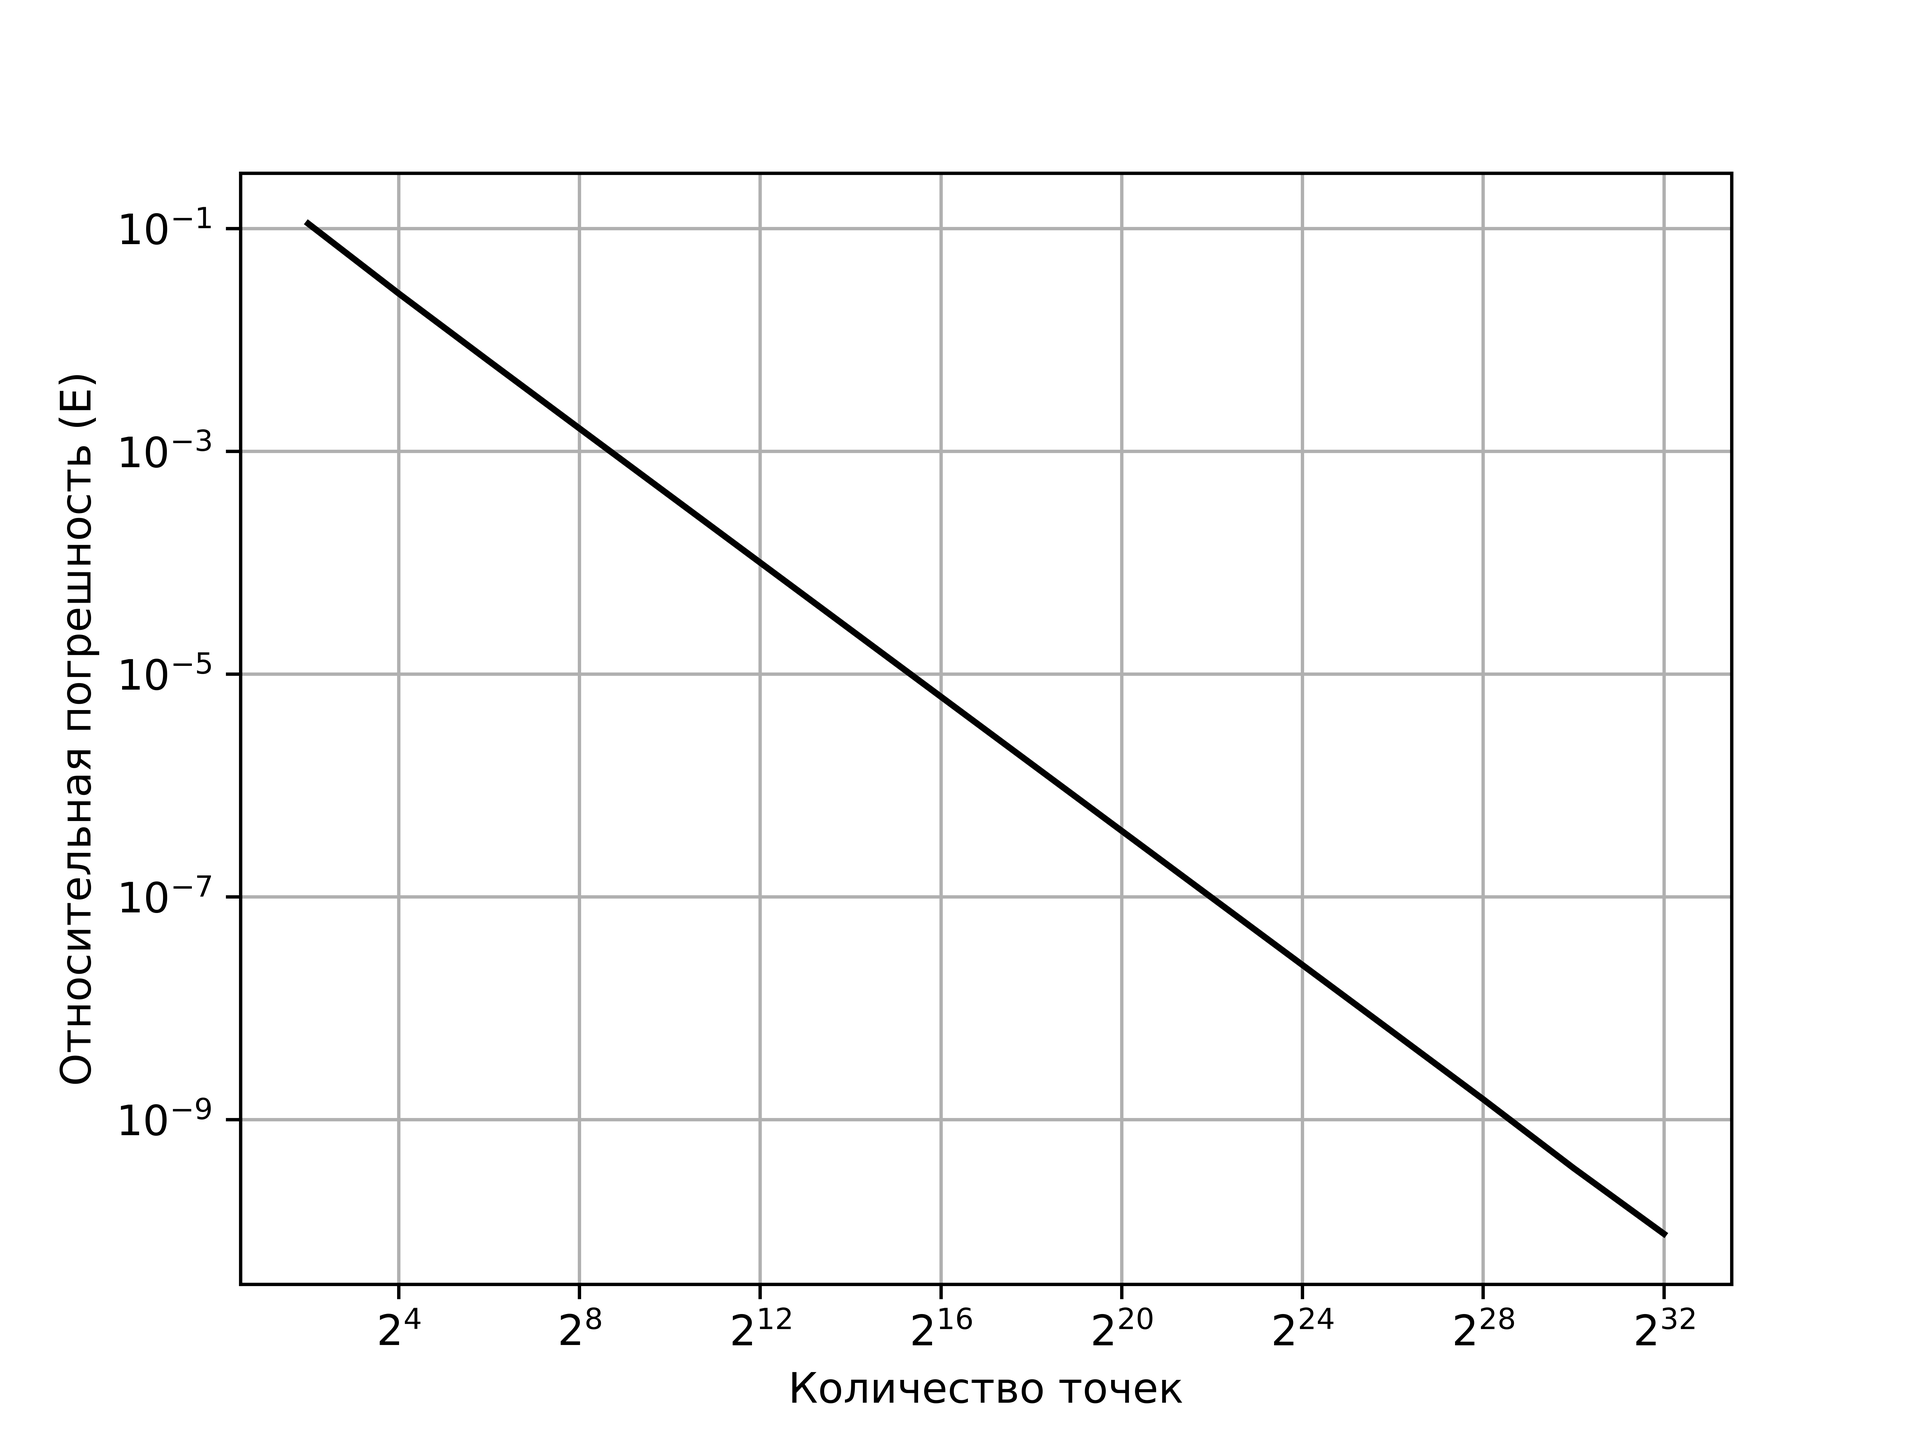
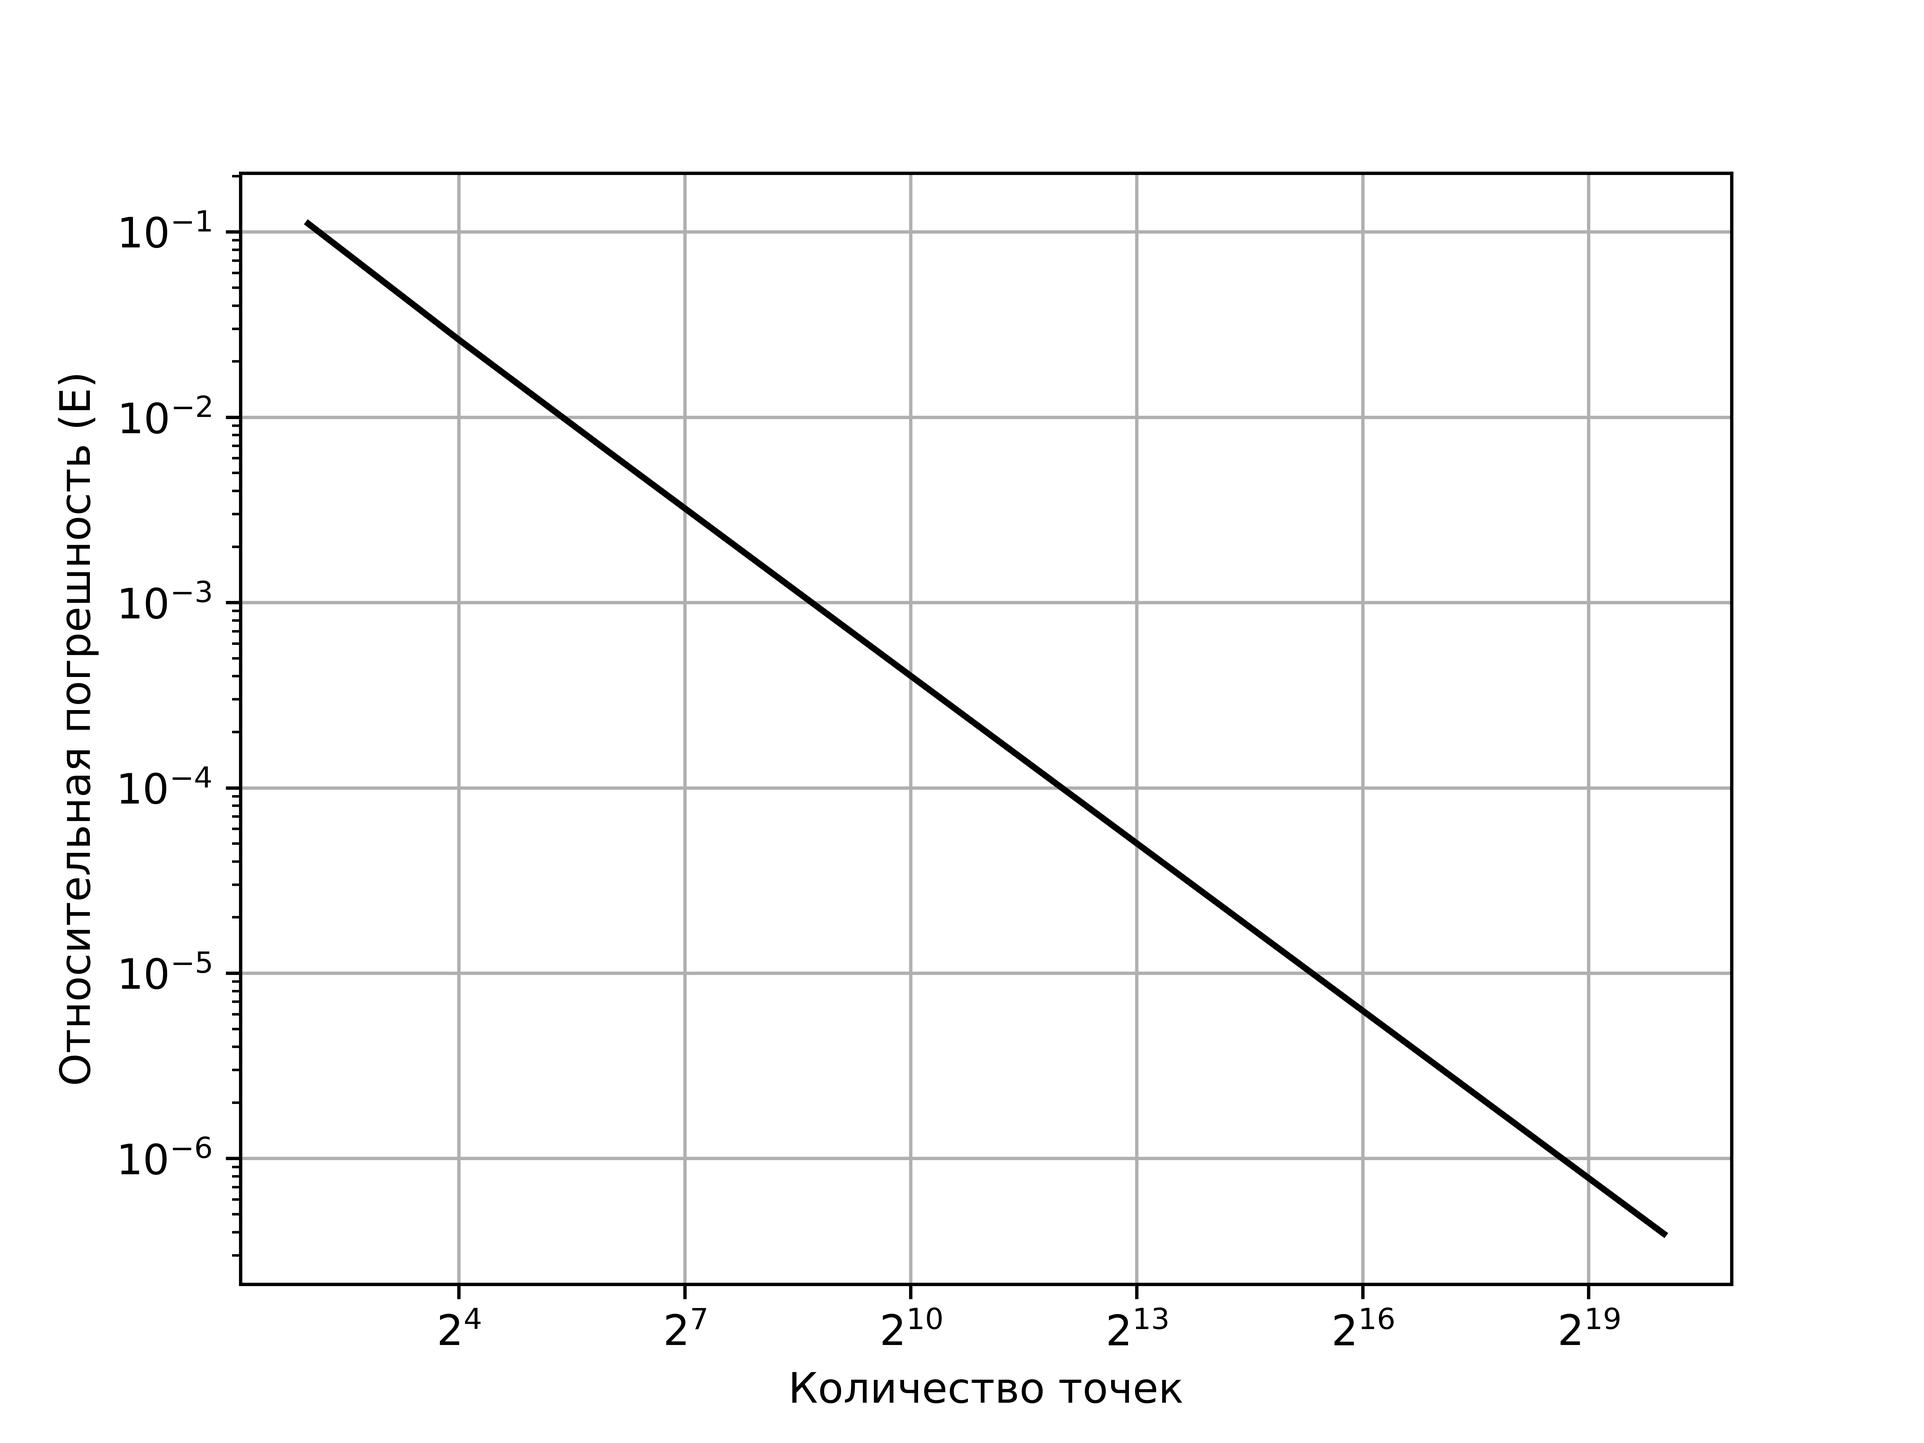
changes

diff --git a/gui.py b/gui.py
@@ -8,6 +8,8 @@ from threading import Event
 from model import Drum_with_podlozkda, Mishen
 from tkinter import messagebox
 from decimal import Decimal
+import logging
+import sys
 
 global exit_flag
 exit_flag = Event()
@@ -54,12 +56,15 @@ def start(
     frames,
     d_field,
     ct_field,
+    enabled_sh,
+    rad_sh,
+    height_sh
 ):
 
-    if not (0 < rad_b < 99):
+    if not (0 <= rad_b <= 99):
         messagebox.showerror("Ошибка", "Введено недопустимое значение радиуса барабана. Допустимые значения:0-99")
         return
-    elif not(0 < rad_o < 99):
+    elif not(0 <= rad_o <= 99):
         messagebox.showerror("Ошибка", "Введено недопустимое значение радиуса образца. Допустимые значения:0-99")
         return
     elif not(rad_o + rad_b < m_distance):
@@ -74,7 +79,7 @@ def start(
     elif not(0 < m_width <= 100):
         messagebox.showerror("Ошибка", "Введено недопустимое значение ширины. Допустимые значения: (0,100]")
         return
-    elif not(0 < m_distance <= 100):
+    elif not(0 < m_distance <= 400):
         messagebox.showerror("Ошибка", "Введено недопустимое значение расстояния от центра барабана до мишени. Допустимые значения:(0,100]")
         return
     elif not(-360 <= psi <= 360):
@@ -108,6 +113,10 @@ def start(
         messagebox.showerror("Ошибка", "Введено недопустимое значение частоты вращения барабана. Допустимые значения:0-100")
         return
 
+    if not (enabled_sh):
+        rad_sh = 0
+        height_sh = 0
+
     exit_flag.clear()
     print(time_step)
     disable_buttons_for_frames(frames)
@@ -131,8 +140,17 @@ def start(
         seconds=time,
         d_field=d_field,
         ct_field=ct_field,
+        height_sh=height_sh / 2,
+        rad_sh=rad_sh
     )
 
+def disable_shtuka(var, param1, param2):
+    if var.get() is False:
+        param1.configure(state='disable')
+        param2.configure(state='disable')
+    else:
+        param1.configure(state='normal')
+        param2.configure(state='normal')
 
 def stop(frames):
     enable_buttons_for_frames(frames)
@@ -164,8 +182,8 @@ if __name__ == "__main__":
 
     # Create a tkinter button at the bottom of the window and link it with the updateGraph function
     root.title("Моделирование нанесения наноструктур в магнетроннах барабанного вида")
-    root.geometry('{}x{}'.format(800, 750))
-    root.minsize(width=800, height=790)
+    root.geometry('{}x{}'.format(800, 890))
+    root.minsize(width=800, height=890)
     # top_frame = tk.Frame(root, bg='cyan', width=450, height=50, pady=3)
     # center = tk.Frame(root, bg='gray2', width=50, height=40, padx=3, pady=3)
     # btm_frame = tk.Frame(root, bg='white', width=450, height=45, pady=3)
@@ -292,6 +310,32 @@ if __name__ == "__main__":
     entryMishHeight = tk.Entry(labelframeMish, text=entryTextMishHeight)
     entryMishHeight.pack(side="top", anchor="nw", expand=True)
 
+
+    # Штука
+    labelTextMishRadVnutr = tk.StringVar()
+    labelTextMishRadVnutr.set("Радиус штуки")
+    labelMishRadVnutr = tk.Label(labelframeMish, textvariable=labelTextMishRadVnutr, height=1)
+    entryTextMishRadVnutr = tk.DoubleVar()
+    entryTextMishRadVnutr.set(0)
+    entryMishRadVnutr = tk.Entry(labelframeMish, text=entryTextMishRadVnutr)
+    entryMishRadVnutr.configure(state="disabled")
+    labelTextMishHeightVnutr = tk.StringVar()
+    labelTextMishHeightVnutr.set("Высота штуки")
+    labelMishHeightVnutr = tk.Label(labelframeMish, textvariable=labelTextMishHeightVnutr, height=1)
+    entryTextMishHeightVnutr = tk.DoubleVar()
+    entryTextMishHeightVnutr.set(0)
+    entryMishHeightVnutr = tk.Entry(labelframeMish, text=entryTextMishHeightVnutr)
+    entryMishHeightVnutr.configure(state="disabled")
+
+    labelTextMishEnableVnutr = tk.BooleanVar()
+    labelTextMishEnableVnutr.set(False)
+    labelMishEnableVnutr = tk.Checkbutton(labelframeMish, text="Штука", variable=labelTextMishEnableVnutr, height=1, command=lambda: disable_shtuka(labelTextMishEnableVnutr, entryMishRadVnutr, entryMishHeightVnutr))
+    labelMishEnableVnutr.pack(side="top", anchor="nw", expand=True)
+    labelMishRadVnutr.pack(side="top", anchor="nw", expand=True)
+    entryMishRadVnutr.pack(side="top", anchor="nw", expand=True)
+    labelMishHeightVnutr.pack(side="top", anchor="nw", expand=True)
+    entryMishHeightVnutr.pack(side="top", anchor="nw", expand=True)
+
     # inside labelframeSred
     labelTextSredK = tk.StringVar()
     labelTextSredK.set("Коэффициент затенения")
@@ -389,8 +433,11 @@ if __name__ == "__main__":
             framesToDisable,
             entryTextD,
             entryTextTTime,
+            labelTextMishEnableVnutr.get(),
+            entryTextMishRadVnutr.get(),
+            entryTextMishHeightVnutr.get(),
         ),
     ).grid(row=0, column=0)
     tk.Button(frameSS, text="Стоп", command=lambda: stop(framesToDisable)).grid(row=0, column=1)
-
+    logging.basicConfig(stream=sys.stdout, level=logging.DEBUG)
     root.mainloop()

diff --git a/integr.py b/integr.py
@@ -425,12 +425,9 @@ def midpoint_calc_for_multithread(
     curr=0,
     hx=0,
     hy=0,
+    rad_sh=0,
+    height_sh=0
 ):
-
-    rad_middle = 2
-    len_middle = 5
-
-
 
     I = 0
     coord_list = []
@@ -460,16 +457,26 @@ def midpoint_calc_for_multithread(
                 z_1 = z_0 + s_3_nepodv * t
                 x_1 = l
                 logging.debug(f'Координаты точки пересечения: {x_1:.3f}, {y_1:.3f}, {z_1:.3f}')
-                if not (
-                    (z_lower_border_target <= z_1 <= z_higher_border_target)
-                    and (y_left_border_target <= y_1 <= y_right_border_target)
-                    and (math.sqrt(y_1**2 + (z_1 + len_middle)**2) > rad_middle)
-                    and (math.sqrt(y_1**2 + (z_1 - len_middle)**2) > rad_middle)
-                    and (not(-rad_middle <= y_1 <= rad_middle) or not(-len_middle <= z_1 <= len_middle))
-                ):
-                    logging.debug(f"{Fore.RED}Луч не пересекает поверхность{Style.RESET_ALL}")
-                    coord_list.append([x_1, y_1, z_1, 0])
-                    continue
+                if height_sh != 0:
+                    if not (
+                        (z_lower_border_target <= z_1 <= z_higher_border_target)
+                        and (y_left_border_target <= y_1 <= y_right_border_target)
+                        and (math.sqrt(y_1**2 + (z_1 + height_sh)**2) > rad_sh)
+                        and (math.sqrt(y_1**2 + (z_1 - height_sh)**2) > rad_sh)
+                        and (not(-rad_sh <= y_1 <= rad_sh) or not(-height_sh <= z_1 <= height_sh))
+                    ):
+                        logging.debug(f"{Fore.RED}Луч не пересекает поверхность{Style.RESET_ALL}")
+                        coord_list.append([x_1, y_1, z_1, 0])
+                        continue
+                else:
+                    if not (
+                        (z_lower_border_target <= z_1 <= z_higher_border_target)
+                        and (y_left_border_target <= y_1 <= y_right_border_target)
+                    ):
+                        logging.debug(f"{Fore.RED}Луч не пересекает поверхность{Style.RESET_ALL}")
+                        coord_list.append([x_1, y_1, z_1, 0])
+                        continue
+
                 logging.debug(f"{Fore.GREEN}Луч пересекает поверхность{Style.RESET_ALL}")
                 coord_list.append([x_1, y_1, z_1, 1])
 
@@ -500,6 +507,8 @@ def midpoint_double_viz_multithread(
     y_0=0,
     z_0=0,
     l=10,
+    height_sh=0,
+    rad_sh=0
 ):
 
     hx = (b1 - a1) / nx
@@ -547,6 +556,8 @@ def midpoint_double_viz_multithread(
                     curr=curr,
                     hx=hx,
                     hy=hy,
+                    height_sh=height_sh,
+                    rad_sh=rad_sh
                 )
             )
             logging.debug("started thread")

diff --git a/graph_tochn_time_error.py b/graph_tochn_time_error.py
@@ -11,7 +11,7 @@ path = "/home/remini/learning/diplom"
 res = []
 d_arr = []
 for filename in os.listdir(path):
-    if re.match("table_tochn_time_one_thread.csv*", filename):
+    if re.match("table_tochn_time.csv*", filename):
         with open(os.path.join(path, filename), 'r') as f:
             print(filename)
             reader = csv.reader(f, delimiter=',', quotechar=',',
@@ -29,46 +29,44 @@ for filename in os.listdir(path):
                 if re.match("angle*", row[0]):
                     continue
                 else:
-                    d_arr.append([float(row[2]), int(row[5])])
+                    d_arr.append([float(row[1]), float(row[2]), int(row[5])])
 
-d_arr.sort(key=lambda x: x[1])
+d_arr.sort(key=lambda x: x[2])
 print(d_arr)
 
 x = []
 y = []
 x_tick = np.array([])
 
-appended = []
 for elem in d_arr:
-    if elem[1] not in appended:
-        x.append(elem[1])
-        y.append(elem[0])
-        appended.append(elem[1])
+    x.append(elem[2])
+    y.append(elem[0])
 
-# xnew = np.linspace(min(x), max(x), 100)
+
+# xnew = np.linspace(min(x), max(x), 400)
 # bspline = make_interp_spline(x, y)
 # y_smoothed = bspline(xnew)
-# plt.plot(xnew, y_smoothed, c="black")
+# plt.plot(xnew, y_smoothed)
+# f = interp1d(x, y, kind='quadratic')
+# xnew = np.linspace(min(x), max(x), num=len(x)*8, endpoint=True)
+# X_Y_Spline = make_interp_spline(x, y)
 
-X_Y_Spline = make_interp_spline(x, y)
-
-# Returns evenly spaced numbers
-# over a specified interval.
-X_ = np.linspace(min(x), max(x), 80)
-Y_ = X_Y_Spline(X_)
+# # Returns evenly spaced numbers
+# # over a specified interval.
+# X_ = np.linspace(max(x), max(y), len(x) * 8)
+# Y_ = X_Y_Spline(X_)
 
 # # plt.plot(np.arange(0, len(xnew), 1), f(xnew))
 # # plt.xticks(np.arange(0, len(xnew), step), np.unique(x_tick))
 # # plt.plot(np.arange(0, len(np.unique(x_tick)), 1), )
 # # plt.xticks(np.arange(0, len(np.unique(x_tick)), 1), np.unique(x_tick))
+# plt.plot(X_, Y_)
 plt.plot(x, y, c="black")
-# plt.plot(x, y)
-# plt.yscale('log', base=2)
-# plt.yscale('log')
 plt.xscale('log', base=2)
+plt.yscale('log')
 # plt.xticks(np.unique(x_tick), np.unique(x_tick), rotation=45)
 plt.xlabel("Количество точек")
-plt.ylabel("Время (cек)")
+plt.ylabel("Относительная погрешность (E)")
 plt.grid()
-plt.savefig(f'{path}/res_kol_time.png', dpi=1000)
+plt.savefig(f'{path}/res_error.png', dpi=1000)
 plt.show()

diff --git a/main.py b/main.py
@@ -123,6 +123,8 @@ def one_dot_visualize_midpoint(
     nx=100,
     ny=100,
     time_step=0.15,
+    rad_sh=0,
+    height_sh=0,
     d_field=None,
     ct_field=None,
 ):
@@ -174,9 +176,11 @@ def one_dot_visualize_midpoint(
                     z_higher_border_target=mishen.z_higher_border_target,
                     l=mishen.x,
                     ksi=point.current_angle,
+                    rad_sh=rad_sh,
+                    height_sh=height_sh,
                 )
                 end = time.time()
-                # print(end - start)
+                print(end - start)
 
                 thickness += v_p * time_step
                 # green_counter = 0
@@ -187,26 +191,18 @@ def one_dot_visualize_midpoint(
                 red_intersections_ys_top = []
                 red_intersections_zs_top = []
                 for coord_intersection in coord_intersections:
-                    # x_val.append(coord_intersection[0])
-                    # y_val.append(coord_intersection[1])
-                    # y_val2.append(coord_intersection[1])
-                    # z_val2.append(coord_intersection[2])
                     if coord_intersection[3] == 1:
                         green_intersections_xs_top.append(coord_intersection[0])
                         green_intersections_ys_top.append(coord_intersection[1])
                         green_intersections_zs_top.append(coord_intersection[2])
-                        # color_val2.append("green")
                     else:
                         if (
                             y_min_graph <= coord_intersection[1] <= y_max_graph
-                            and -mishen_max_graph - 5 <= coord_intersection[2] <= mishen_max_graph + 5
+                            and -mishen_max_graph <= coord_intersection[2] <= mishen_max_graph
                         ):
                             red_intersections_xs_top.append(coord_intersection[0])
                             red_intersections_ys_top.append(coord_intersection[1])
                             red_intersections_zs_top.append(coord_intersection[2])
-                        # color_val.append("red")
-                        # color_val2.append("red")
-                # print(green_counter)
                 x_val.extend(red_intersections_xs_top)
                 y_val.extend(red_intersections_ys_top)
                 color_val += ["red"] * len(red_intersections_xs_top)

diff --git a/issled.py b/issled.py
@@ -288,14 +288,18 @@ def issled_integr(func, a1, b1, a2, b2, nx, ny, real_val):
 
 def issled_integr_diff_nx_ny(func, a1, b1, a2, b2, real_val):
     points = 2
-    while points <= 2 ** 8:
+    while points * points <= 1048576:
         res = issled_integr(func, a1, b1, a2, b2, points, points, real_val)
         res.append(points * points)
-        points = points * 2
+        points = points + 100
         print(res)
 
+    res = issled_integr(func, a1, b1, a2, b2, 1024, 1024, real_val)
+    res.append(points * points)
+    print(res)
+
 if __name__ == "__main__":
-    # res = issled_integr_diff_nx_ny(int_func3, 0, math.pi / 2, 0, math.pi / 2, math.pi / 4)
+    res = issled_integr_diff_nx_ny(int_func3, 0, math.pi / 2, 0, math.pi / 2, math.pi / 4)
     # tart = time.time()
     # res,_ = midpoint_double_viz_multithread(func=int_func4, a1=0, b1=math.pi * 2, a2=0, b2=math.pi / 2, ny=100, nx=100)
     # end = time.time()
@@ -307,7 +311,20 @@ if __name__ == "__main__":
 
     # issled_k()
     # issled_step_po_rasstoyaniy()
-    issled_step_po_rad()
+    # issled_step_po_rad()
+    # drum_with_podlozkda = Drum_with_podlozkda(rad=10, rpm=1, holders_rad=1, holders_rpm=2)
+    # mishen = Mishen(300, -25.5 / 2, 25.5 / 2, -11.5 / 2, 11.5 / 2)
+    # issled_neravnomernosti(mishen=mishen, drum_with_podlozkda=drum_with_podlozkda)
+
+    # drum_with_podlozkda = Drum_with_podlozkda(rad=10, rpm=15, holders_rad=1, holders_rpm=23)
+    # mishen = Mishen(300, -400 / 2, 400 / 2, -11.5 / 2, 11.5 / 2)
+    # issled_neravnomernosti(mishen=mishen, drum_with_podlozkda=drum_with_podlozkda)
+
+    # drum_with_podlozkda = Drum_with_podlozkda(rad=10, rpm=15, holders_rad=1, holders_rpm=23)
+    # mishen = Mishen(300, -20 / 2, 20 / 2, -11.5 / 2, 11.5 / 2)
+    # issled_neravnomernosti(mishen=mishen, drum_with_podlozkda=drum_with_podlozkda)
+
+
     # # issled_neravnomernosti(omega_b=15, omega_o=23)
     # issled_time_method_cond(cond_enabled=True)
     # issled_time_method_cond(cond_enabled=False)

diff --git a/table_worker_k_diff.py b/table_worker_k_diff.py
@@ -21,9 +21,11 @@ for filename in os.listdir(path):
     if re.match("table_nera*", filename):
         filename_s = filename.split("_")
         # print(filename_s[1][2:])
-        if not(int(filename_s[2][2:]) == 15 and int(filename_s[3][2:]) == 23):
+        if not(int(filename_s[2][2:]) == 1 and int(filename_s[3][2:]) == 2):
             continue
         k = float(filename_s[5].split(".csv")[0][1:])
+        if k >= 0.055253796026246194:
+            continue
         with open(os.path.join(path, filename), 'r') as f:
             print(filename)
             reader = csv.reader(f, delimiter=',', quotechar=',', quoting=csv.QUOTE_MINIMAL)
@@ -87,7 +89,7 @@ plt.plot(x, y, c="black")
 plt.grid(True)
 # plt.scatter(x, y)
 # plt.xticks(np.unique(x_tick), np.unique(x_tick), rotation=45)
-plt.xlabel("Степень затенения")
+plt.xlabel("Степень рассеяния")
 plt.ylabel("Неоднородность по поверхности образца")
-plt.savefig(f'{path}/res15_23.png', dpi=1000)
+plt.savefig(f'{path}/res1_2.png', dpi=1000)
 plt.show()
